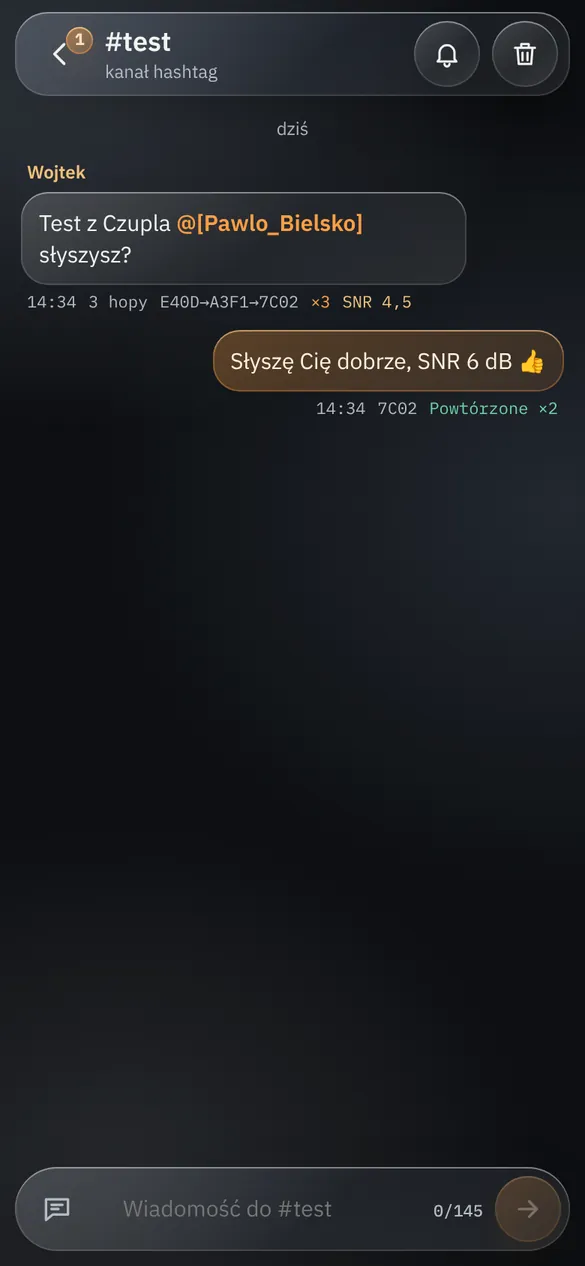
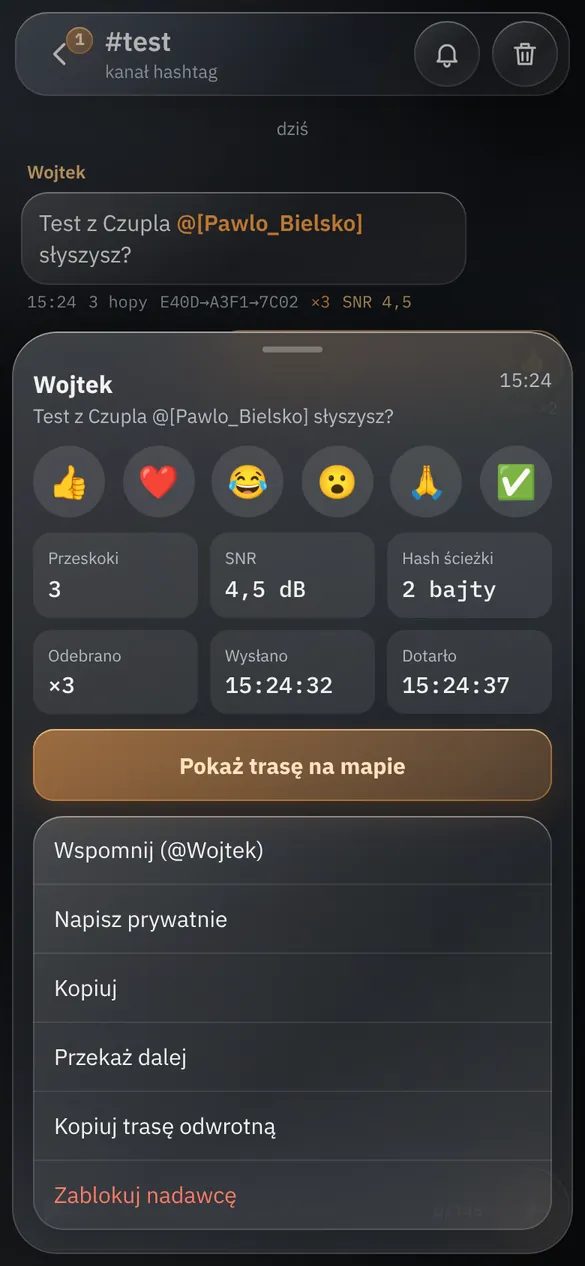
Zrzuty: opcje wiadomości przez przytrzymanie (long press)
Claude-Session: https://claude.ai/code/session_01Vxn5N5msNpoQTSz2iexvVC

diff --git a/scripts/meshspeed_zrzuty.py b/scripts/meshspeed_zrzuty.py
@@ -138,7 +138,8 @@ try:
             pg.fill('#msgInput', 'Słyszę Cię dobrze, SNR 6 dB 👍') if pg.is_visible('#msgInput') else None
             pg.press('#msgInput', 'Enter') if pg.is_visible('#msgInput') else None
             W(2500); shot('rozmowa')
-            pg.click('#msgList .msg >> nth=0'); W(600); shot('wiadomosc-opcje')
+            m = '#msgList .msg:not(.mine)[data-mid] >> nth=-1' if pg.locator('#msgList .msg:not(.mine)[data-mid]').count() else '#msgList .msg[data-mid] >> nth=-1'
+            pg.click(m, delay=800); W(900); shot('wiadomosc-opcje')
             pg.keyboard.press('Escape'); pg.evaluate("document.getElementById('sheetBg') && document.getElementById('sheetBg').click()"); W(300)
             back()
         step('czaty', czaty)
